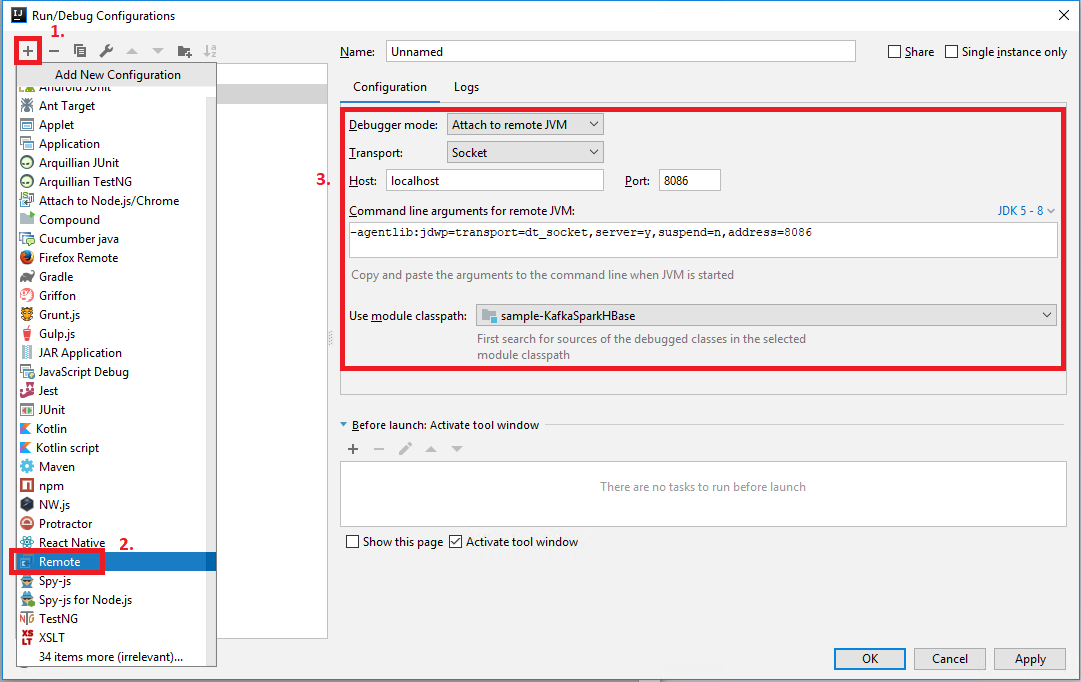
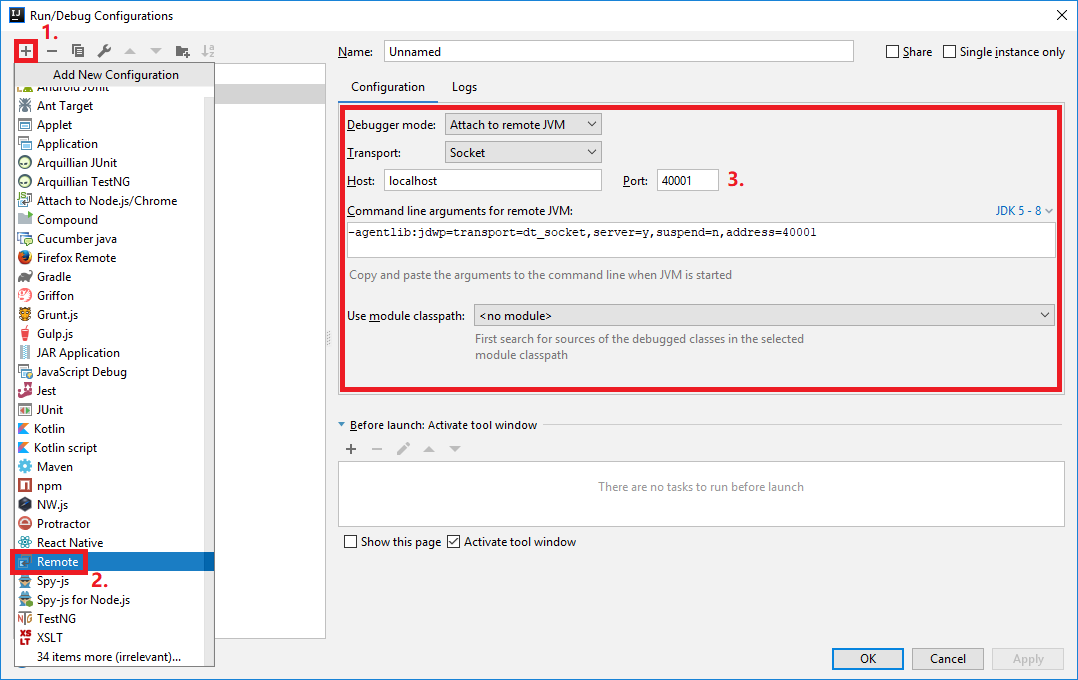
Add properties to enable JMX

diff --git a/Dev_Env_setup/README.md b/Dev_Env_setup/README.md
@@ -8,67 +8,7 @@
 * Docker 18.06.1-ce
 
 ## Table of Content
-<!-- TOC depthFrom:1 depthTo:6 withLinks:1 updateOnSave:1 orderedList:0 -->
 
-- [Spark Local Development Environment Setup with Java and Maven](#spark-local-development-environment-setup-with-java-and-maven)
-	- [Table of Content](#table-of-content)
-	- [1. JDK Setup](#1-jdk-setup)
-		- [1.1 Download JDK](#11-download-jdk)
-		- [1.2 Install JDK](#12-install-jdk)
-			- [Windows](#windows)
-			- [MacOS](#macos)
-			- [Linux](#linux)
-	- [2. IDE Setup](#2-ide-setup)
-		- [2.1 Download and Install IntelliJ IDEA](#21-download-and-install-intellij-idea)
-			- [Windows](#windows)
-			- [MacOS](#macos)
-			- [Linux](#linux)
-		- [2.2 Create or Import IntelliJ Project](#22-create-or-import-intellij-project)
-			- [Create New Maven Project](#create-new-maven-project)
-			- [Import Existing Maven Project](#import-existing-maven-project)
-				- [If Project is on Version Control](#if-project-is-on-version-control)
-				- [If Project is in local directory](#if-project-is-in-local-directory)
-		- [2.3 Import Libraries](#23-import-libraries)
-		- [2.4 Write Code](#24-write-code)
-		- [2.5 Create Fat Jar](#25-create-fat-jar)
-	- [3. Docker Setup](#3-docker-setup)
-		- [3.1 Download and Install Docker](#31-download-and-install-docker)
-			- [Windows](#windows)
-			- [MacOS](#macos)
-			- [Linux](#linux)
-		- [3.2 Memory Configuration](#32-memory-configuration)
-			- [Windows](#windows)
-			- [MacOS](#macos)
-			- [Linux](#linux)
-		- [3.3 Pull Image from Docker Hub](#33-pull-image-from-docker-hub)
-		- [3.4 Run the Image](#34-run-the-image)
-			- [Windows or MacOS](#windows-or-macos)
-			- [Linux](#linux)
-	- [4. Run the Spark Job](#4-run-the-spark-job)
-		- [4.1 Create Kafka Topic](#41-create-kafka-topic)
-		- [4.2 Create HBase Table](#42-create-hbase-table)
-		- [4.3 Copy Jar to Container and Submit to Spark](#43-copy-jar-to-container-and-submit-to-spark)
-		- [4.4 Publish Data to Kafka](#44-publish-data-to-kafka)
-		- [4.5 Check the Result in HBase](#45-check-the-result-in-hbase)
-	- [5. Live Debugging](#5-live-debugging)
-	- [6. Clean Up](#6-clean-up)
-		- [6.1 Drop HBase Table](#61-drop-hbase-table)
-		- [6.2 Remove Docker Container and Image](#62-remove-docker-container-and-image)
-		- [6.3 Remove Intellij Project](#63-remove-intellij-project)
-	- [Docker Toolbox Setup (TODO)](#docker-toolbox-setup-todo)
-	- [VirtualBox Setup (TODO)](#virtualbox-setup-todo)
-	- [VMware Setup (TODO)](#vmware-setup-todo)
-	- [References](#references)
-	- [Appendix](#appendix)
-		- [Appendix A - Docker Image Info](#appendix-a-docker-image-info)
-		- [Appendix B - Known Issues](#appendix-b-known-issues)
-			- [1. Components Stop Working After the Docker Container or the Host Restarts](#1-components-stop-working-after-the-docker-container-or-the-host-restarts)
-				- [Symptom](#symptom)
-				- [Cause](#cause)
-				- [Solution](#solution)
-				- [Workarounds](#workarounds)
-
-<!-- /TOC -->
 
 ## 1. JDK Setup
 
@@ -359,9 +299,9 @@ Docker for Mac and Windows cannot route traffic to Linux containers. Use the fol
 * To connect to a container from the Mac or Windows, run the image using either one of the following commands and then use localhost:{port} to access the service in the container.
   * Use `-p` or `--publish` to publish ports on the container to specific ports on the host.
   ```
-  docker run --hostname aio --name aio -it -p 2181:2181 -p 4040:4040 -p 6667:6667 -p 7077:7077 -p 8080:8080 -p 8081:8081 -p 8086:8086 -p 9042:9042 -p 9090:9090 -p 16000:16000 -p 16010:16010 -p 16020:16020 -p 16030:16030 -p 18080:18080 ccbt87/aio
+	docker run --hostname aio --name aio -it -p 2181:2181 -p 4040:4040 -p 6667:6667 -p 7077:7077 -p 8080:8080 -p 8081:8081 -p 9042:9042 -p 9090:9090 -p 16000:16000 -p 16010:16010 -p 16020:16020 -p 16030:16030 -p 18080:18080 -p 40001-40011:40001-40011 ccbt87/aio
   ```
-  * Use `-P` to exposes pre-defined ports on the container to random ports on the host. (Ports 2181 4040 6667 7077 8080 8081 8086 9042 9090 16000 16010 16020 16030 18080 were defined in the Dockerfile when building this Docker image)
+  * Use `-P` to exposes pre-defined ports on the container to random ports on the host. (Ports 2181 4040 6667 7077 8080 8081 9042 9090 16000 16010 16020 16030 18080 and 40001 to 40011 were defined in the Dockerfile when building this Docker image)
   ```
   docker run --hostname aio --name aio -it -P ccbt87/aio
   ```
@@ -457,14 +397,14 @@ In the IntelliJ, set breakpoints in your code. Then go to Run > Edit Configurati
 
 ![Conf](images/5.1.1.PNG)
 
-Then click the + button at the upper-left and add a new remote configuration. Fill the host and port fields. In this case, use the host `localhost` and port `8086`.
+Then click the + button at the upper-left and add a new remote configuration. Fill the host and port fields. For example, use the host `localhost` and port `40001`.
 
 ![Remote](images/5.1.2.PNG)
 
 In the container shell, submit the Spark job with the `--conf` flag to set `spark.driver.extraJavaOptions` to the same as the `Command line arguments for remote JVM` in the IntelliJ remote configuration window.
 
 ```
-/opt/spark-2.3.1-bin-hadoop2.7/bin/spark-submit --conf spark.driver.extraJavaOptions=-agentlib:jdwp=transport=dt_socket,server=y,suspend=n,address=8086 --class KafkaSparkHBase /root/sample-KafkaSparkHBase-1.0-SNAPSHOT.jar
+/opt/spark-2.3.1-bin-hadoop2.7/bin/spark-submit --conf spark.driver.extraJavaOptions=-agentlib:jdwp=transport=dt_socket,server=y,suspend=n,address=40001 --class KafkaSparkHBase /root/sample-KafkaSparkHBase-1.0-SNAPSHOT.jar
 ```
 
 Or write the configuration to a file and read it from the file using the `--properties-file` flag when submitting the job.
@@ -481,13 +421,91 @@ Go back to IntelliJ and hit the `Debug` button immediately after submitting your
 
 ![Console](images/5.1.4.PNG)
 
-You can inspect the values of live variables in the `Debugger` tab.
+Under the `Debugger` tab, you can inspect the values of live variables within the Spark job.
 
 ![Debugger](images/5.1.5.PNG)
 
-## 6. Clean Up
+## 6. Profiling JVM
 
-### 6.1 Drop HBase Table
+### Configuration
+
+Java Management Extensions (JMX) API is used to expose the Java applications for remote management (profiling)
+
+#### HBase, Kafka, NiFi, and Cassandra
+
+Following properties will be applied to HBase, Kafka, NiFi, and Cassandra when running the Docker image .
+
+```
+-XX:+UnlockCommercialFeatures \
+-XX:+FlightRecorder \
+-Dcom.sun.management.jmxremote=true \
+-Dcom.sun.management.jmxremote.authenticate=false \
+-Dcom.sun.management.jmxremote.ssl=false \
+-Dcom.sun.management.jmxremote.port={port} \
+-Dcom.sun.management.jmxremote.rmi.port={port} \
+-Dcom.sun.management.jmxremote.local.only=false \
+-Djava.rmi.server.hostname=localhost
+```
+
+Use following ports for JMX connections
+
+| Component | Port |
+| --- | --- |
+| NiFi | 40004 |
+| Kafka | 40005 |
+| Hbase Master | 40006 |
+| Cassandra | 40011 |
+
+> NOTE: In standalone mode HBase runs all the daemons including HBase Master, HBase RegionServer, and the ZooKeeper within a single JVM. JMX connection can only be set up for HBase Master OR HBase RegionServer in this case.
+
+#### Spark Driver and Executor
+
+For Spark Driver and Executor, the same properties need to be included in the Spark Configuration when submitting the spark job.
+
+For example, include the properties for both of the `spark.driver.extraJavaOptions` and `spark.executor.extraJavaOptions` in the `spark.conf` file:
+
+![SparkConf](images/6.1.1.PNG)
+
+In the container shell, read it from the file using the `--properties-file` flag when submitting the job.
+
+```
+/opt/spark-2.3.1-bin-hadoop2.7/bin/spark-submit --properties-file spark.conf --class KafkaSparkHBase /root/sample-KafkaSparkHBase-1.0-SNAPSHOT.jar
+```
+
+Once submitted, JMX connection is available on the port that is specified in the `spark.conf` file.
+
+### Java VisualVM
+
+
+Enter `jvisualvm` in the host console to launch the Java VisualVM.
+
+Once the Java VisualVM is open, click on the `Add JMX Connection` icon, type in hostname and port, and click `OK`
+
+![ViualVM](images/6.2.1.PNG)
+
+The connection will be added in the Applications tab on the left side. Double click on the connection, the JVM monitoring information will show up on the right side.
+
+![ViualVM](images/6.2.2.PNG)
+
+> NOTE: the Profiler tab is not available for remote applications, use the Sampler tab as an alternative.
+
+### Java Mission Control
+
+Enter `jmc` in the host console to launch the Java Mission Control.
+
+Once the Java Mission Control is open, click on the `Create a new custom JVM connection` icon, type in hostname and port, and click on `Test connection` to test the connection. If the `Status` shows `OK`, click `Finish`
+
+![MC](images/6.3.1.PNG)
+
+The connection will be added in the JVM Browser tab on the left side. Double click on the `MBean Server` under the connection, the JVM monitoring information will show up on the right side.
+
+![MC](images/6.3.2.PNG)
+
+Use the `Flight Recorder` for profiling.
+
+## 7. Clean Up
+
+### 7.1 Drop HBase Table
 
 In the container shell, run following command to disable and drop all of the HBase tables
 
@@ -495,7 +513,7 @@ In the container shell, run following command to disable and drop all of the HBa
 echo -e "disable_all '.*'\ny\ndrop_all '.*'\ny" | /opt/hbase-2.0.0/bin/hbase shell -n
 ```
 
-### 6.2 Remove Docker Container and Image
+### 7.2 Remove Docker Container and Image
 
 Use `docker ps` to check the existence of any running container.
 
@@ -503,7 +521,7 @@ Use `docker ps` to check the existence of any running container.
 docker ps
 ```
 
-Use `docker stop {container name}` to stop the running container.
+Use `docker stop {container name or id}` to stop the running container.
 
 ```
 docker stop aio
@@ -515,7 +533,7 @@ Use `docker ps -a` to check the existence of any container.
 docker ps -a
 ```
 
-Use `docker rm {container name}` to remove the stopped container.
+Use `docker rm {container name or id}` to remove the stopped container.
 
 ```
 docker rm aio
@@ -527,13 +545,13 @@ Use `docker images` to list the local images.
 docker images
 ```
 
-Use `docker rmi {image name}` to remove the local image.
+Use `docker rmi {image name or id}` to remove the local image.
 
 ```
 docker rmi ccbt87/aio
 ```
 
-### 6.3 Remove Intellij Project
+### 7.3 Remove Intellij Project
 
 To remove the Intellij project, simply delete the project directory on the disk.
 
@@ -555,6 +573,16 @@ https://hortonworks.com/tutorial/setting-up-a-spark-development-environment-with
 https://github.com/ccbt87/sample-KafkaSparkHBase
 
 https://docs.docker.com/docker-for-mac/networking/
+
+https://spark.apache.org/docs/latest/monitoring.html
+
+https://community.hortonworks.com/content/supportkb/150580/how-to-connect-jconsole-to-spark-driver-and-execut.html
+
+https://community.hortonworks.com/questions/180008/enabling-jmx-for-nifi.html
+
+https://docs.datastax.com/en/cassandra/3.0/cassandra/configuration/secureJmxAuthentication.html
+
+https://hbase.apache.org/metrics.html
 
 ## Appendix
 ### Appendix A - Docker Image Info
@@ -585,7 +613,7 @@ Scripts under `/root`:
 
 `init-hbase-table.sh` is used for create or drop HBase table:
 
-Supply no argument will first try to disable and drop the default table name `test-table`, and then create the same table name with the default column family `word-count`
+Supply no argument will first try to disable and drop the default table name `tenantxsy_data`, and then create the same table name with three column families `e`, `U`, and `S`
 ```
 ./init-hbase-table.sh
 ```
@@ -593,9 +621,9 @@ Supply one argument will try to disable and drop the specified table name
 ```
 ./init-hbase-table.sh table_name
 ```
-Supply two arguments will first try to disable and drop the specified table name, and then create the same table name with the column family
+Supply two arguments will first try to disable and drop the specified table name, and then create the same table name with the column family name(s)
 ```
-./init-hbase-table.sh table_name columnfamily_name
+./init-hbase-table.sh table_name columnfamily_name [columnfamily_name2 columnfamily_name3]
 ```
 
 ### Appendix B - Known Issues
@@ -625,6 +653,6 @@ None
 
 2. Add `--rm` option when running the Docker image
 ```
-docker run --hostname aio --name aio --rm -it -p 2181:2181 -p 4040:4040 -p 6667:6667 -p 7077:7077 -p 8080:8080 -p 8081:8081 -p 8086:8086 -p 9042:9042 -p 9090:9090 -p 16000:16000 -p 16010:16010 -p 16020:16020 -p 16030:16030 -p 18080:18080 ccbt87/aio
+docker run --hostname aio --name aio --rm -it -p 2181:2181 -p 4040:4040 -p 6667:6667 -p 7077:7077 -p 8080:8080 -p 8081:8081 -p 9042:9042 -p 9090:9090 -p 16000:16000 -p 16010:16010 -p 16020:16020 -p 16030:16030 -p 18080:18080 -p 40001-40011:40001-40011 ccbt87/aio
 ```
 > NOTE: With the `--rm` flag Docker will remove the container when it exits. Make sure to backup the data in the container if there is any.
